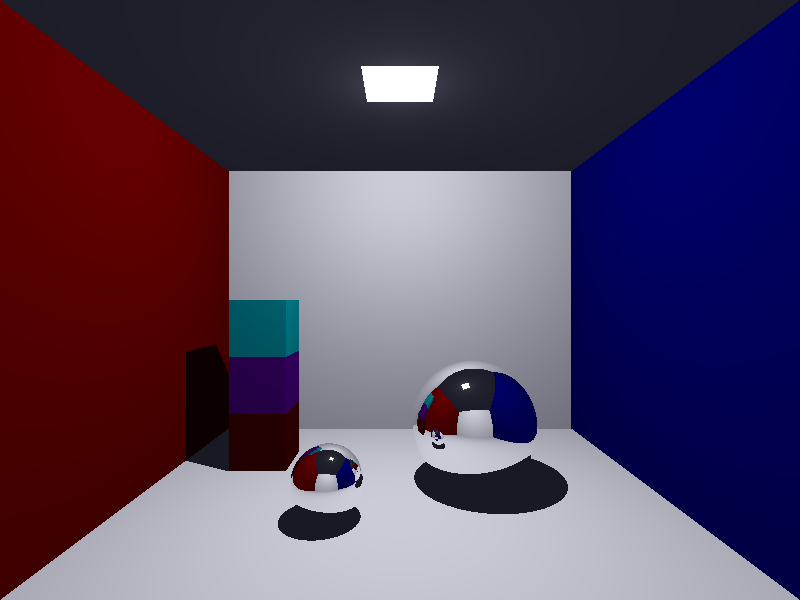
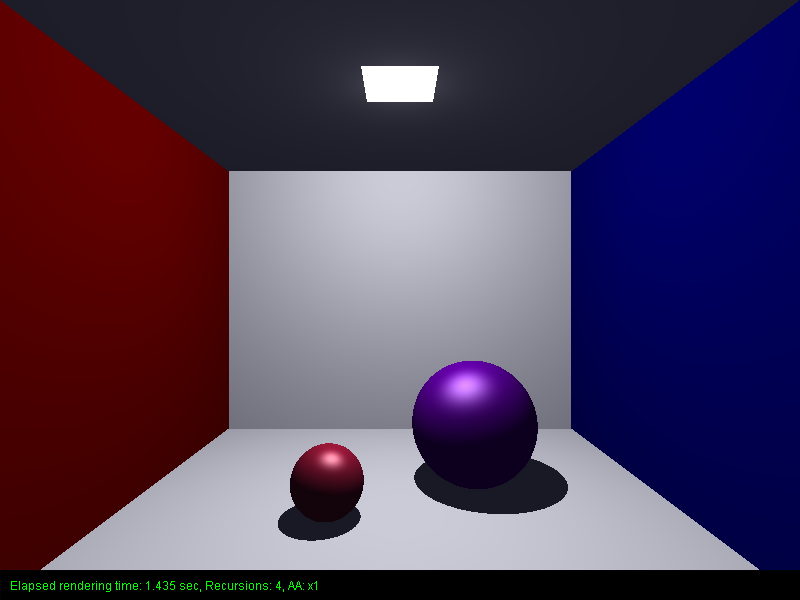
Task 4

Changed region(s): [[0.0, 0.93, 1.0, 1.0], [0.2188, 0.48, 0.4688, 0.87], [0.5, 0.6, 0.6875, 0.84]]

diff --git a/VCG_Raytracer/src/Main.java b/VCG_Raytracer/src/Main.java
@@ -96,7 +96,7 @@ public class Main {
 
     /** DEBUG **/
     //this gets rid of the debug info on the bottom of the window
-    static final boolean SHOW_PARAM_LABEL = false;
+    static final boolean SHOW_PARAM_LABEL = true;
 
 
     /** Initial method. This is where the show begins. **/
@@ -128,17 +128,8 @@ public class Main {
     }
 
     private static void setupLights(Scene renderScene) {
-        // Lights - task 3
-        //renderScene.createPointLight(new Vec3 (-2.5f,2.5f,4), new RgbColor(0.3f,0.7f,0.3f));
-        //renderScene.createPointLight(new Vec3 (3f,2.5f,3), new RgbColor(0.7f,0.3f,0.3f));
-        //renderScene.createPointLight(new Vec3 (-2.5f,5f,2), new RgbColor(0.3f,0.3f,0.7f));
-
         // Lights - task 4
         renderScene.createPointLight(LIGHT_POSITION, new RgbColor(0.7f,0.7f,0.7f));
-
-
-        //testing shadow projection
-        //renderScene.createPointLight(new Vec3(50,0,0), RgbColor.WHITE);
     }
 
     private static void setupCameras(Scene renderScene) {
@@ -153,32 +144,24 @@ public class Main {
 
     private static void setupObjects(Scene renderScene) {
          // Materials
-        Material mat_lambert = new Lambert(new RgbColor(0.6f,0.2f,0.5f));
-        Material mat_lambert_shiny = new Lambert(RgbColor.PURPLE,0.6f);
+        Material mat_phong_purple = new Phong(RgbColor.PURPLE, new RgbColor(0.8f, 0.8f, 0.8f), 5);
+        Material mat_phong_red = new Phong(RgbColor.ROYAL_RED, new RgbColor(0.8f, 0.8f, 0.8f), 8);
+        Material mat_phong_green = new Phong(RgbColor.GREEN, new RgbColor(0.8f, 0.8f, 0.8f), 8);
+        Material mat_lambert_green = new Lambert(RgbColor.GREEN);
 
-        Material mat_phong = new Phong(RgbColor.PURPLE, new RgbColor(0.8f, 0.8f, 0.8f), 8);
-        Material mat_phong_shiny = new Phong(RgbColor.GREEN, new RgbColor(0.8f, 1f, 0.8f), 18, 0.2f);
-
+        //we made a custom material to have a similiar look for it as in the example picture
         Material mat_lamp = new LambertLamp();
 
         // Objects
-        renderScene.createSphere(new Vec3(1.2f,1f,-1), 1f, mat_lambert_shiny);
-        renderScene.createSphere(new Vec3(-1f,0.5f,0.1f), 0.5f, mat_phong_shiny);
+        renderScene.createSphere(new Vec3(1.2f,1f,-1), 1f, mat_phong_purple);
+        renderScene.createSphere(new Vec3(-1f,0.5f,0.1f), 0.5f, mat_phong_red);
+        //as a bonus we made a cube :D -> however not very optimized for now
+        //commented out right now due to current implementation HEAVILY tanking render time
+        //renderScene.createCubeTower(new Vec3(-2f,0.5f,-2f));
+
 
         //roof  square
         renderScene.createSquare(1, new Vec3(0f, 5.99999f, 0f), new Vec3(0f, -1f, 0f), mat_lamp);
-
-        //testing square
-        //renderScene.createSquare(2, new Vec3(-1.5f, 3.5f, 0f), new Vec3(1f, 0.5f, 0.5f), new Phong(RgbColor.RED, new RgbColor(0.8f, 0.8f, 0.8f), 8));
-        //renderScene.createCube(1f, new Vec3(-2.5f, 0.5f, -2f),new Phong(RgbColor.RED, new RgbColor(0.8f, 0.8f, 0.8f), 8));
-        //renderScene.createCube(1f, new Vec3(-2.5f, 1.5f, -2f),mat_phong);
-        //renderScene.createCube(1f, new Vec3(-2.5f, 2.5f, -2f),new Phong(RgbColor.CYAN, new RgbColor(0.8f, 0.8f, 0.8f), 8));
-        //renderScene.createCube(1f, new Vec3(-2.5f, 0.5f, -2.5f),mat_shiny);
-
-        //testing shadow projection
-        //renderScene.createSphere(new Vec3(1f, 0,0), 0.75f, mat_phong);
-        //renderScene.createSphere(new Vec3(-2f, 0,0), 1, mat_phong);
-        
     }
 
     private static void setupCornellBox(Scene renderScene) {
@@ -199,7 +182,7 @@ public class Main {
         renderScene.createPlane(new Vec3(0,0,0), new Vec3(0f,1f,0f), new Lambert(RgbColor.WHITE));
         renderScene.createPlane(new Vec3(0,6,0), new Vec3(0f,-1f,0f), new Lambert(RgbColor.WHITE));
         renderScene.createPlane(new Vec3(0,0,-4), new Vec3(0f,0f,1f), new Lambert(RgbColor.WHITE)); 
-        //behind cam
+        //behind cam -> to avoid infinite hallway in reflection(Task 5)
         renderScene.createPlane(new Vec3(0,0,6), new Vec3(0f,0f,-1f), new Lambert(RgbColor.WHITE)); 
     }
 

diff --git a/VCG_Raytracer/src/scene/Scene.java b/VCG_Raytracer/src/scene/Scene.java
@@ -6,6 +6,7 @@ import raytracer.Ray;
 import scene.camera.Camera;
 import scene.light.Light;
 import scene.light.PointLight;
+import scene.material.Lambert;
 import scene.material.Material;
 import scene.shape.Cube;
 import scene.shape.Intersection;
@@ -49,6 +50,16 @@ public class Scene {
     public void createCube(float _size, Vec3 _pos, Material _Material){
         Square newCube = new Cube(_size, _pos, _Material);
         shapeList.add(newCube);
+    }
+
+    public void createCubeTower(Vec3 _pos){
+        createCube(1, _pos, new Lambert(RgbColor.GREEN));
+        _pos = new Vec3(_pos.x, _pos.y + 0.5f + 0.75f/2f, _pos.z);
+        createCube(0.75f, _pos, new Lambert(RgbColor.CYAN));
+        _pos = new Vec3(_pos.x, _pos.y + 0.75f/2f + 0.25f, _pos.z);
+        createCube(0.5f, _pos, new Lambert(RgbColor.MAGENTA));
+        _pos = new Vec3(_pos.x, _pos.y + 0.25f + 0.125f, _pos.z);
+        createCube(0.25f, _pos, new Lambert(RgbColor.RED));
     }
 
     public void createPointLight(Vec3 _position, RgbColor _color){
